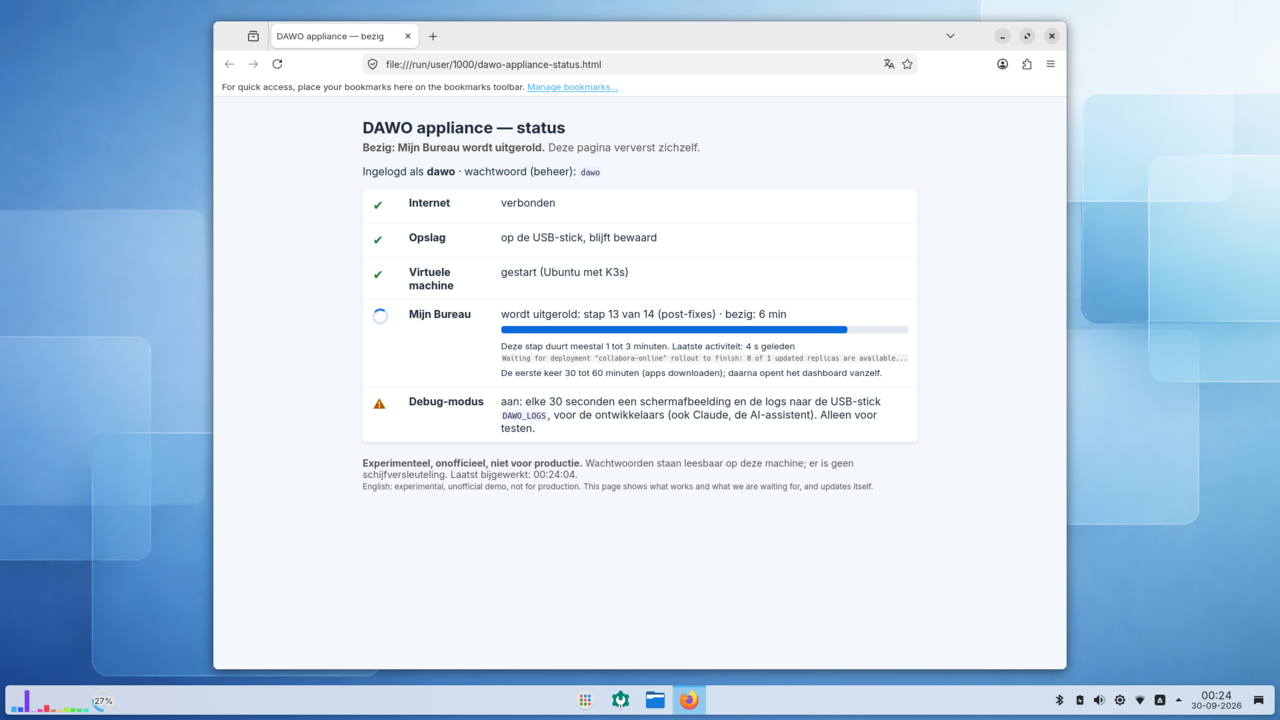
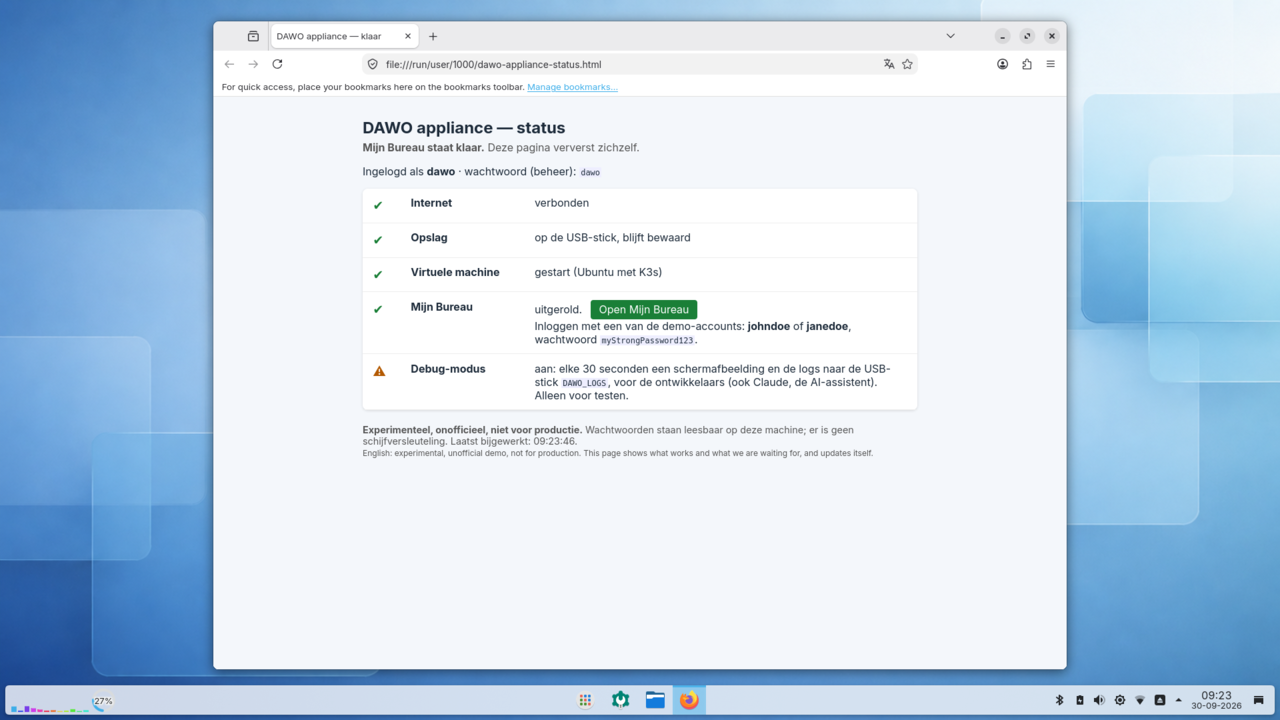
docs(readme): Mijn Bureau completes all 14 phases on the Dell; 'klaar' screenshot (#118)

diff --git a/README.md b/README.md
@@ -28,8 +28,8 @@ Op de USB-schijf staat alles:
 
 | Mijn Bureau installeert zichzelf | De voortgang, stap voor stap |
 | --- | --- |
-| [![De statuspagina terwijl Mijn Bureau zijn apps installeert: draaiend symbool, laatste activiteit en de laatste regel van het logboek](docs/screenshots/live-status-deploying.png)](docs/screenshots/live-status-deploying.png) | [![De statuspagina bij stap 13 van 14, terwijl de online kantoorprogramma's (Collabora) starten](docs/screenshots/live-status-page-dell.png)](docs/screenshots/live-status-page-dell.png) |
-| Na het opstarten opent een statuspagina die laat zien wat werkt en waar het systeem op wacht. | Stap 1 tot en met 13 lukten op de testlaptop; de pagina vertelt ook hoe lang een stap meestal duurt. |
+| [![De statuspagina terwijl Mijn Bureau zijn apps installeert: draaiend symbool, laatste activiteit en de laatste regel van het logboek](docs/screenshots/live-status-deploying.png)](docs/screenshots/live-status-deploying.png) | [![De statuspagina als Mijn Bureau klaar is: alle onderdelen groen en een knop Open Mijn Bureau](docs/screenshots/live-status-page-dell.png)](docs/screenshots/live-status-page-dell.png) |
+| Na het opstarten opent een statuspagina die laat zien wat werkt en waar het systeem op wacht. | Alle 14 stappen lukten op de testlaptop, in ongeveer 8 minuten. Daarna opent de knop Mijn Bureau. |
 
 <sub>Gemaakt door de debug-modus van de USB-schijf op een Dell Latitude 5550, alleen bijgesneden (herkomst: [`docs/screenshots/HARDWARE.md`](docs/screenshots/HARDWARE.md)).</sub>
 
@@ -38,9 +38,9 @@ Op de USB-schijf staat alles:
 | | |
 | --- | --- |
 | ✅ **Werkt** | Opstarten van USB zonder de laptop te veranderen · werkplek na 20 seconden · virtuele machine en Kubernetes binnen een minuut · gegevens blijven bewaard · netjes afsluiten · statuspagina met voortgang |
-| ✅ **Werkt** | Mijn Bureau installeert zichzelf: stap 1 tot en met 13 van 14 gelukt, inclusief alle apps, certificaten, de koppeling met de inlogdienst en de online kantoorprogramma's (Collabora) |
-| 🔄 **Bezig** | Stap 14, de laatste: langere inlogsessies instellen. Een foutje in ons eigen script liet het beheerwachtwoord verkeerd aankomen; dat is hersteld en de volgende sessie op de testlaptop moet het bevestigen |
-| ⏭ **Daarna** | Inloggen in Mijn Bureau en het dashboard in de browser, met schermafbeeldingen |
+| ✅ **Werkt** | Mijn Bureau installeert zichzelf helemaal: alle 14 stappen gelukt (ongeveer 8 minuten als de apps al gedownload zijn), inloggen werkt en het dashboard opent |
+| 🔄 **Bezig** | Makkelijker maken: inloggen met gebruikersnaam `dawo` en wachtwoord `dawo`, en Mijn Bureau opent pas in een nieuw tabblad als je op de knop klikt |
+| ⏭ **Daarna** | Schermafbeeldingen van het dashboard en de apps; de demo doorlopen met het [demoscript](docs/demo-script.md) |
 
 De technische details per stap staan hieronder in het Engelse deel en in de [issues op GitHub](https://github.com/EduardWitteveen/dawo-appliance/issues).
 
@@ -108,19 +108,19 @@ independently runnable. Session handoff: [`docs/STATUS.md`](docs/STATUS.md).
 | 4a | Ubuntu 24.04 VM: libvirt network + guest domain + cloud-init (`hosts/appliance/guest-vm.nix`) | Boot-tested (`test-guest-boot`, live tests); runs on real hardware (Dell, guest SSH after 26 s); firmware-crash reset under nested KVM (#24) |
 | 4b | Per-install appliance CA + host/browser trust (`hosts/appliance/appliance-ca.nix`); CA cert+key transported into the guest at `/etc/dawo-appliance/{ca.crt,ca.key}` (issue #6) | Built 2026-09-25; guest CA transport added 2026-09-26, `nix flake check` passes; boot-test assertions written for both, not yet run on a KVM machine |
 | 5 | Single-node K3s installer, pinned + offline-tested (`k8s/bootstrap/install-k3s.sh`) | Air-gap install boot-tested 2026-09-26: node Ready in the guest after 227 s (`test-guest-boot`, #7) |
-| 6 | Mijn Bureau deploy driver (Helmfile, pinned rev) | Laptop profile (five core apps, `micro` preset; ADR 0007). On the live USB it deploys itself once K3s and internet are up. Dell, 2026-09-30 night (USB SSD): phases 1–13 passed (phase 8 `helmfile apply` 67–338 s, phase 11 in-cluster trust 148–405 s, phase 13 30 s once Collabora got its options as container args, #154). Phase 14 got a 401 from Keycloak: our script sent the admin password with a trailing newline (#156, fixed) |
+| 6 | Mijn Bureau deploy driver (Helmfile, pinned rev) | Laptop profile (five core apps, `micro` preset; ADR 0007). On the live USB it deploys itself once K3s and internet are up. Dell, 2026-09-30 night (USB SSD): phases 1–13 passed (phase 8 `helmfile apply` 67–338 s, phase 11 in-cluster trust 148–405 s, phase 13 30 s once Collabora got its options as container args, #154). Phase 14 first got a 401 from Keycloak (our script sent the admin password with a trailing newline, #156); 2026-09-30 morning: **all 14 phases passed** in 438 s, login and dashboard work |
 | 7 | Health check + auto-open browser, offline-tested | First real pass on the Dell 2026-09-29: all 9 checks OK after 552 s. On the live USB the browser now opens only when the deployment is done (#143) |
-| Live | Live USB: boot an existing laptop, disk untouched, data and debug logs on a `DAWO_LOGS` stick (ADR 0006, accepted) | KVM tests green 2026-09-28 (`test-live-iso-boot`, `test-live-iso-persist`: data reused across boots, clean power-off). Real hardware, Dell Latitude 5550, 2026-09-29, fresh USB SSD: desktop 23 s, guest SSH 37 s, K3s Ready 49 s; Mijn Bureau through phase 13 (see row 6); a whole session writes about 1 GB to the stick (`io.txt`, #147). Dynabook (8 GB): desktop only, guest skipped as designed. The first SanDisk USB stick died after two days of VM writes (#139): use a USB SSD. Screenshots: [`HARDWARE.md`](docs/screenshots/HARDWARE.md) |
+| Live | Live USB: boot an existing laptop, disk untouched, data and debug logs on a `DAWO_LOGS` stick (ADR 0006, accepted) | KVM tests green 2026-09-28 (`test-live-iso-boot`, `test-live-iso-persist`: data reused across boots, clean power-off). Real hardware, Dell Latitude 5550, 2026-09-29, fresh USB SSD: desktop 23 s, guest SSH 37 s, K3s Ready 49 s; Mijn Bureau complete, all 14 phases (see row 6); a whole session writes about 1 GB to the stick (`io.txt`, #147). Dynabook (8 GB): desktop only, guest skipped as designed. The first SanDisk USB stick died after two days of VM writes (#139): use a USB SSD. Screenshots: [`HARDWARE.md`](docs/screenshots/HARDWARE.md) |
 
 **What works today:** the **live USB** boots an existing laptop without touching
 its disk: the DAWO workplace (SDDM + KDE Plasma 6, the pilot app set, nl_NL)
 comes up in about 20 s, the Ubuntu guest and single-node K3s in under a minute
 on a 32 GB laptop, and a self-updating status page shows what works and what
 we are waiting for. Data (the guest disk) persists on the stick across boots.
-Mijn Bureau's deployment starts by itself and has passed phase 13 of 14 on real
+Mijn Bureau's deployment starts by itself and has completed all 14 phases on real
 hardware, including the full `helmfile apply`, certificates and the OIDC
-restarts and Collabora; the health check saw a healthy dashboard. It has not yet run
-end-to-end (phase 14). The installer ISO
+restarts, Collabora and the Keycloak session lifetimes (Dell, 2026-09-30, 438 s
+with the images already on the stick); the login works and the dashboard opens. The installer ISO
 (Slices 1–2) installs the same host to an explicitly confirmed disk. Details
 per slice: `docs/roadmap.md`; the live USB: [`docs/live-usb.md`](docs/live-usb.md).
 Running Mijn Bureau needs a large host (see below).

diff --git a/docs/screenshots/HARDWARE.md b/docs/screenshots/HARDWARE.md
@@ -9,4 +9,4 @@ nothing else. Rules: [`README.md`](README.md).
 | Image | Machine | Session (UTC boot time_boot id) | Captured (local time) | Original SHA-256 | What it shows |
 | --- | --- | --- | --- | --- | --- |
 | `live-status-deploying.png` | Dell Inc. Latitude 5550 | `20260929T144234Z_5f4f1f4d` | 2026-09-29 16:47:23 | `fb4c048c2a5e7bff…` | An earlier session on the same laptop while Mijn Bureau installs its apps (step 8 of 14): spinner, time since the last activity, latest log line. |
-| `live-status-page-dell.png` | Dell Inc. Latitude 5550 | `20260929T221627Z_61935a32` | 2026-09-30 00:24:10 | `47e3ecf07bb755c9…` | Status page at phase 13 of 14 (Collabora rollout), Dell Latitude 5550, USB SSD |
+| `live-status-page-dell.png` | Dell Inc. Latitude 5550 | `20260930T071508Z_59de7dac` | 2026-09-30 09:23:52 | `e2183babf5ad79aa…` | Status page after all 14 phases: Mijn Bureau ready, Open Mijn Bureau button, Dell Latitude 5550, USB SSD |
